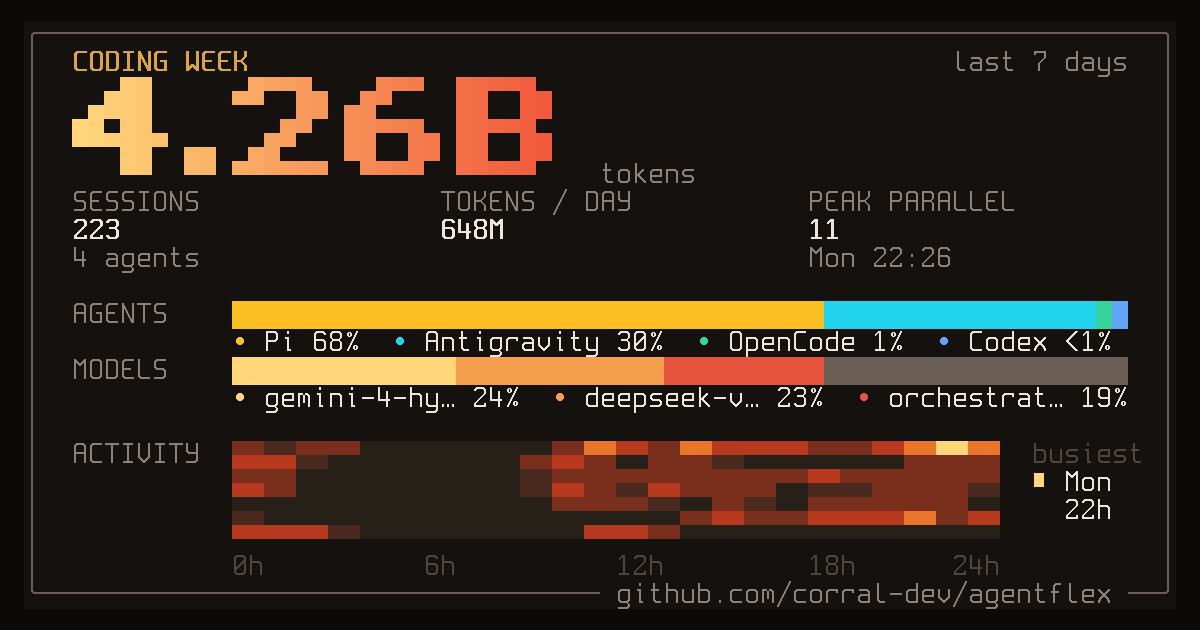
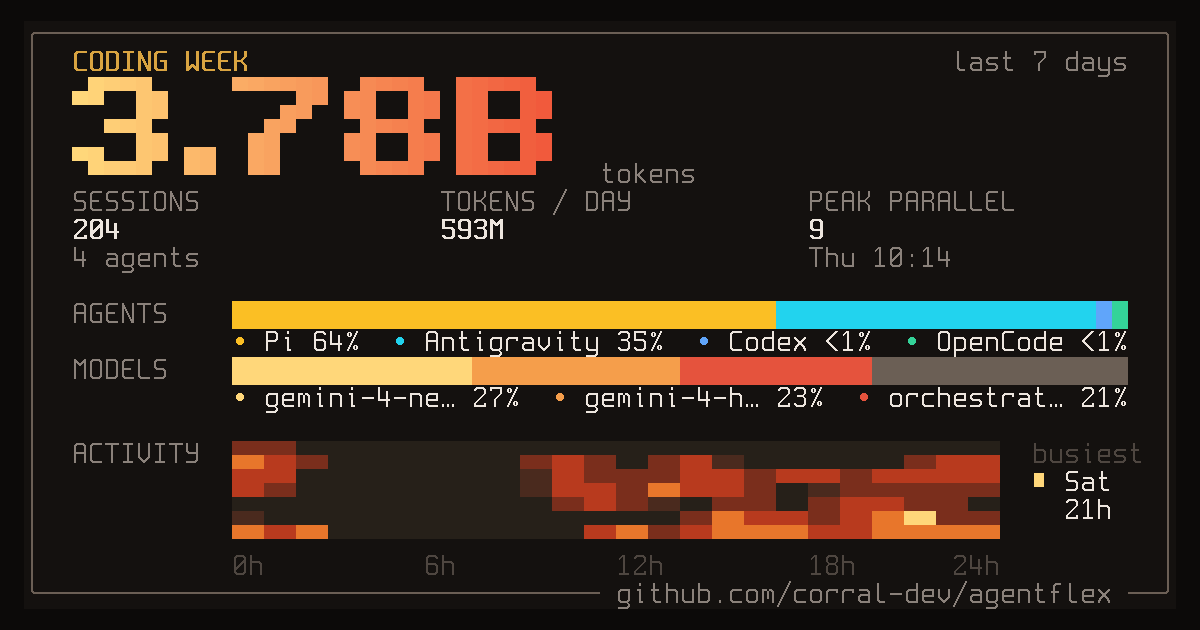
chore: weekly agentflex card (2026-11-23, 204 sessions, 3.78B tokens)

diff --git a/README.md b/README.md
@@ -22,6 +22,6 @@ I build local-first tools for heavy AI coding workflows and native macOS utiliti
 #### 📊 Coding Week
 <!-- agentflex-start -->
 ![coding-agent week](./assets/agentflex-week.png)
-*Week of 2026-11-22 · 223 sessions · 4.26B tokens · peak 11 parallel (11-16 22:26) — auto-updated weekly by [agentflex](https://github.com/corral-dev/agentflex).*
+*Week of 2026-11-23 · 204 sessions · 3.78B tokens · peak 9 parallel (11-19 10:14) — auto-updated weekly by [agentflex](https://github.com/corral-dev/agentflex).*
 <!-- agentflex-end -->
 *If something here saves you time or tokens, star the repos so you can find them again later.*
